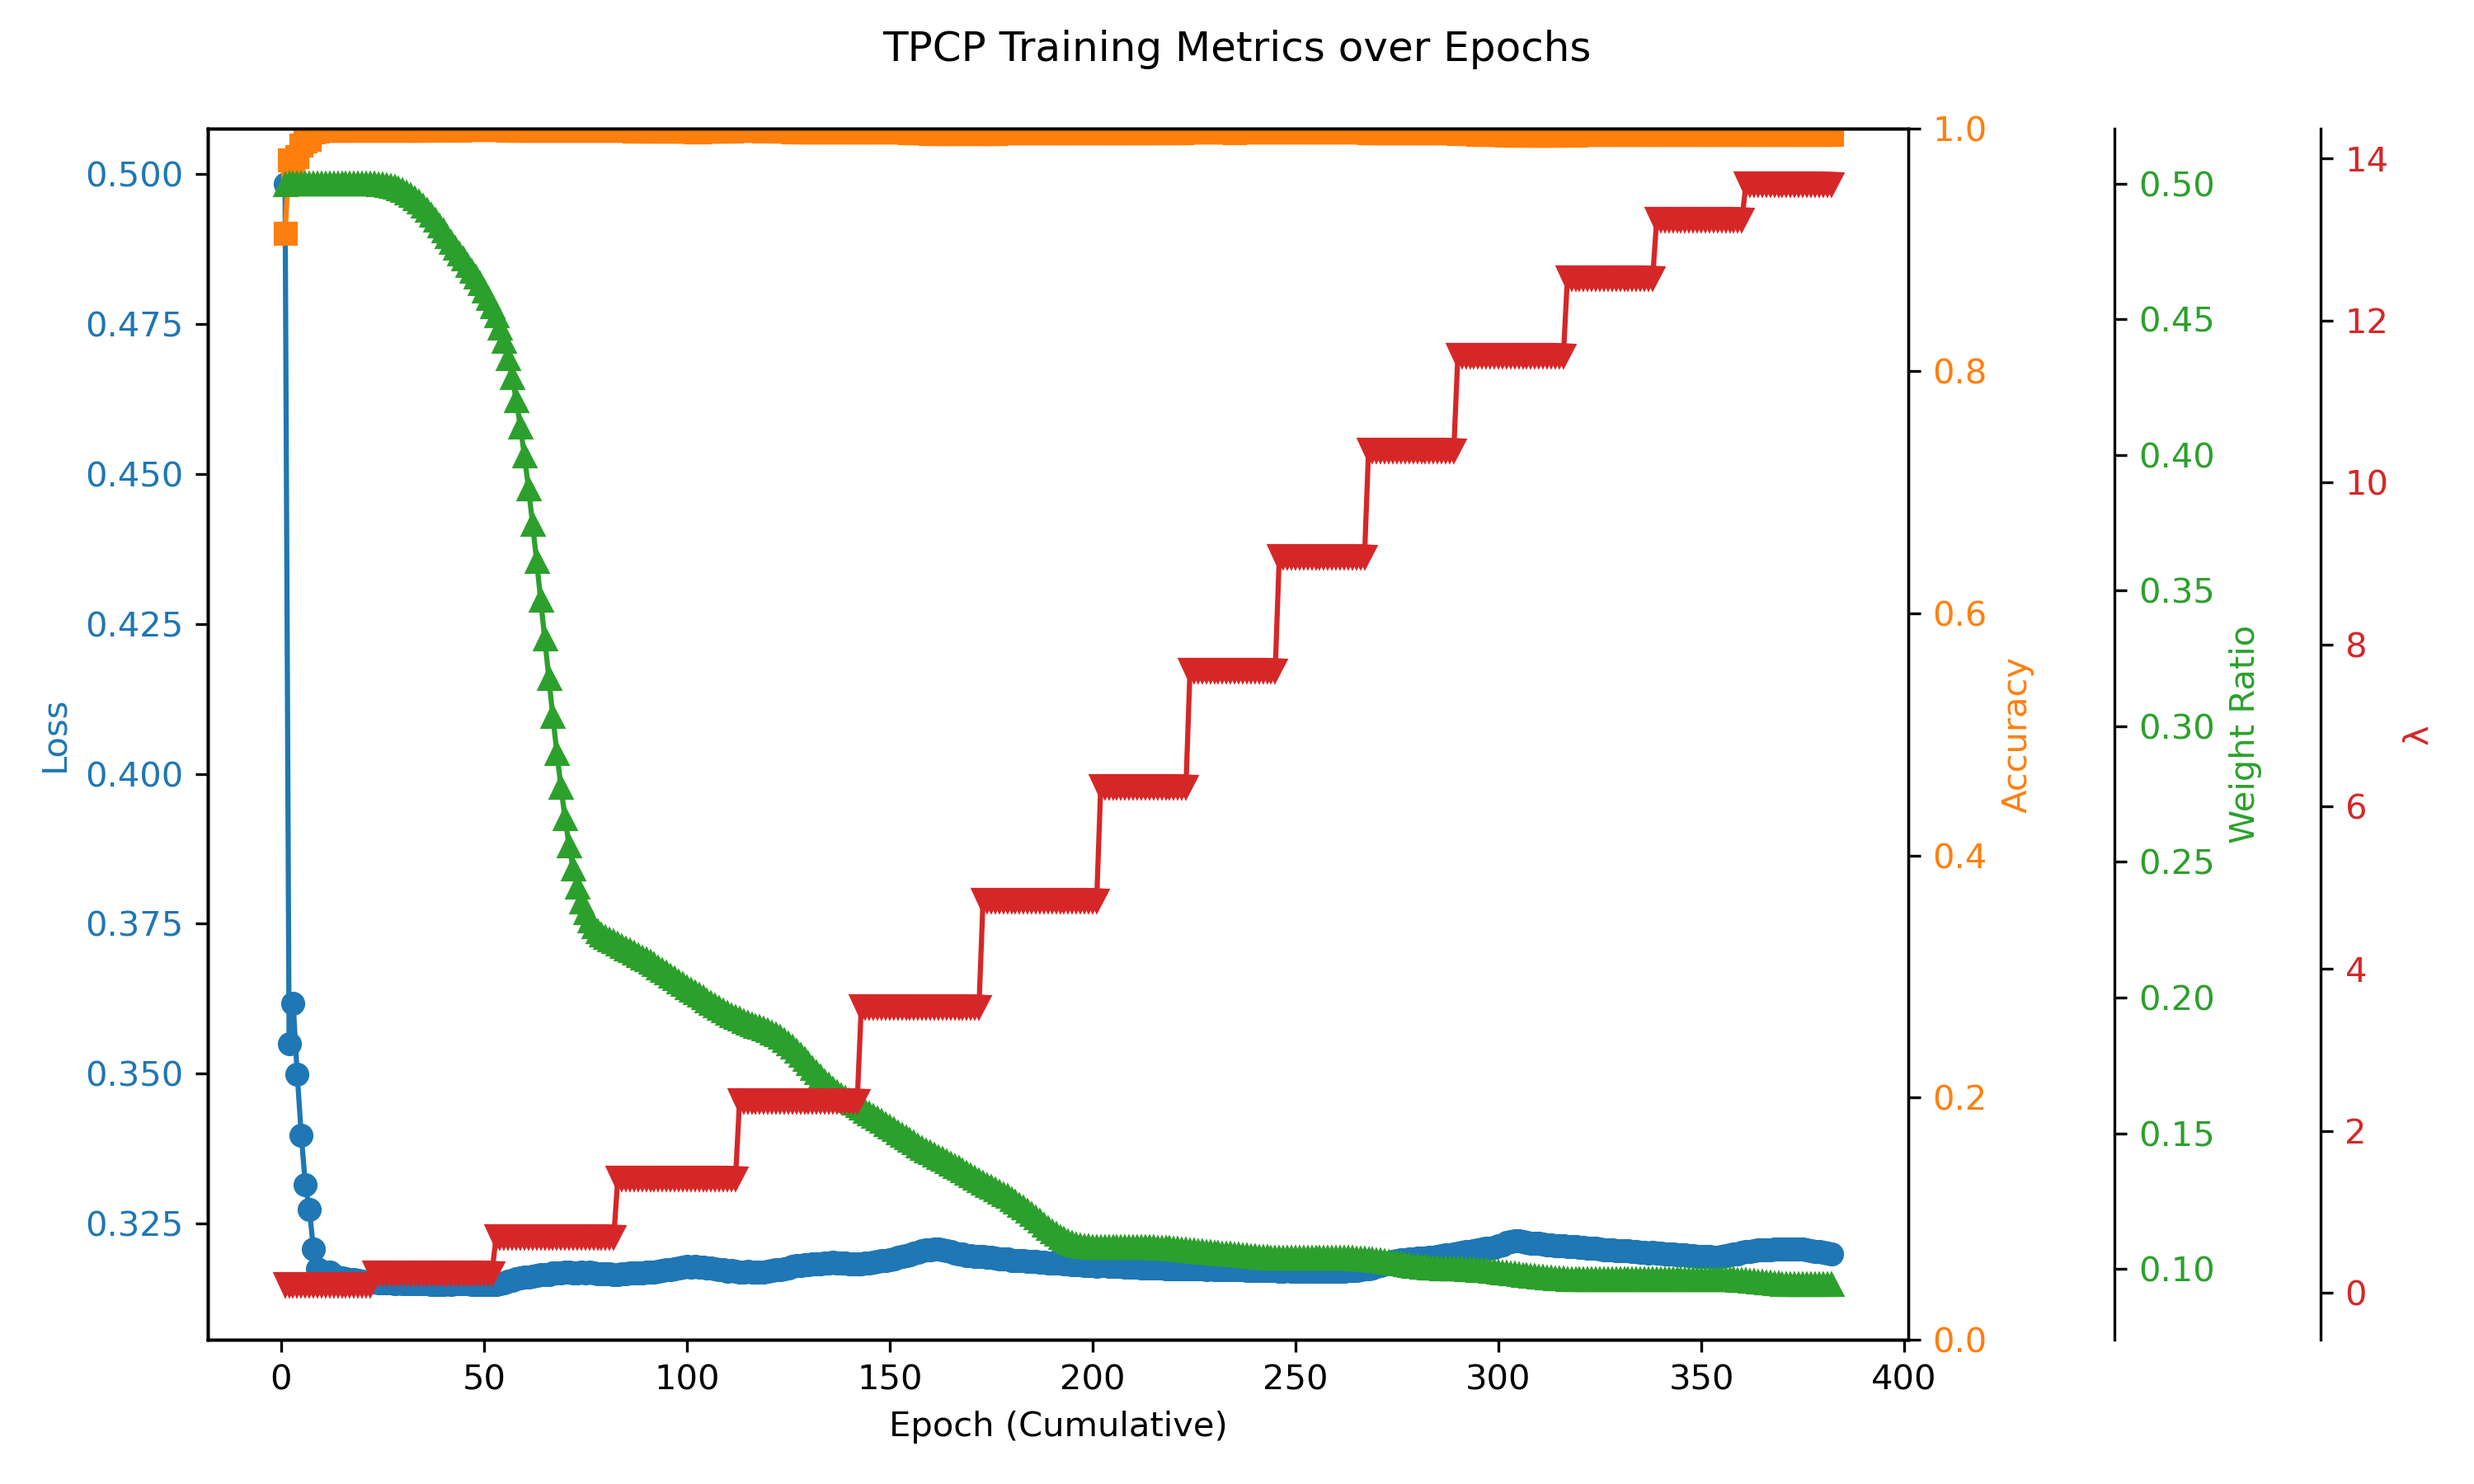
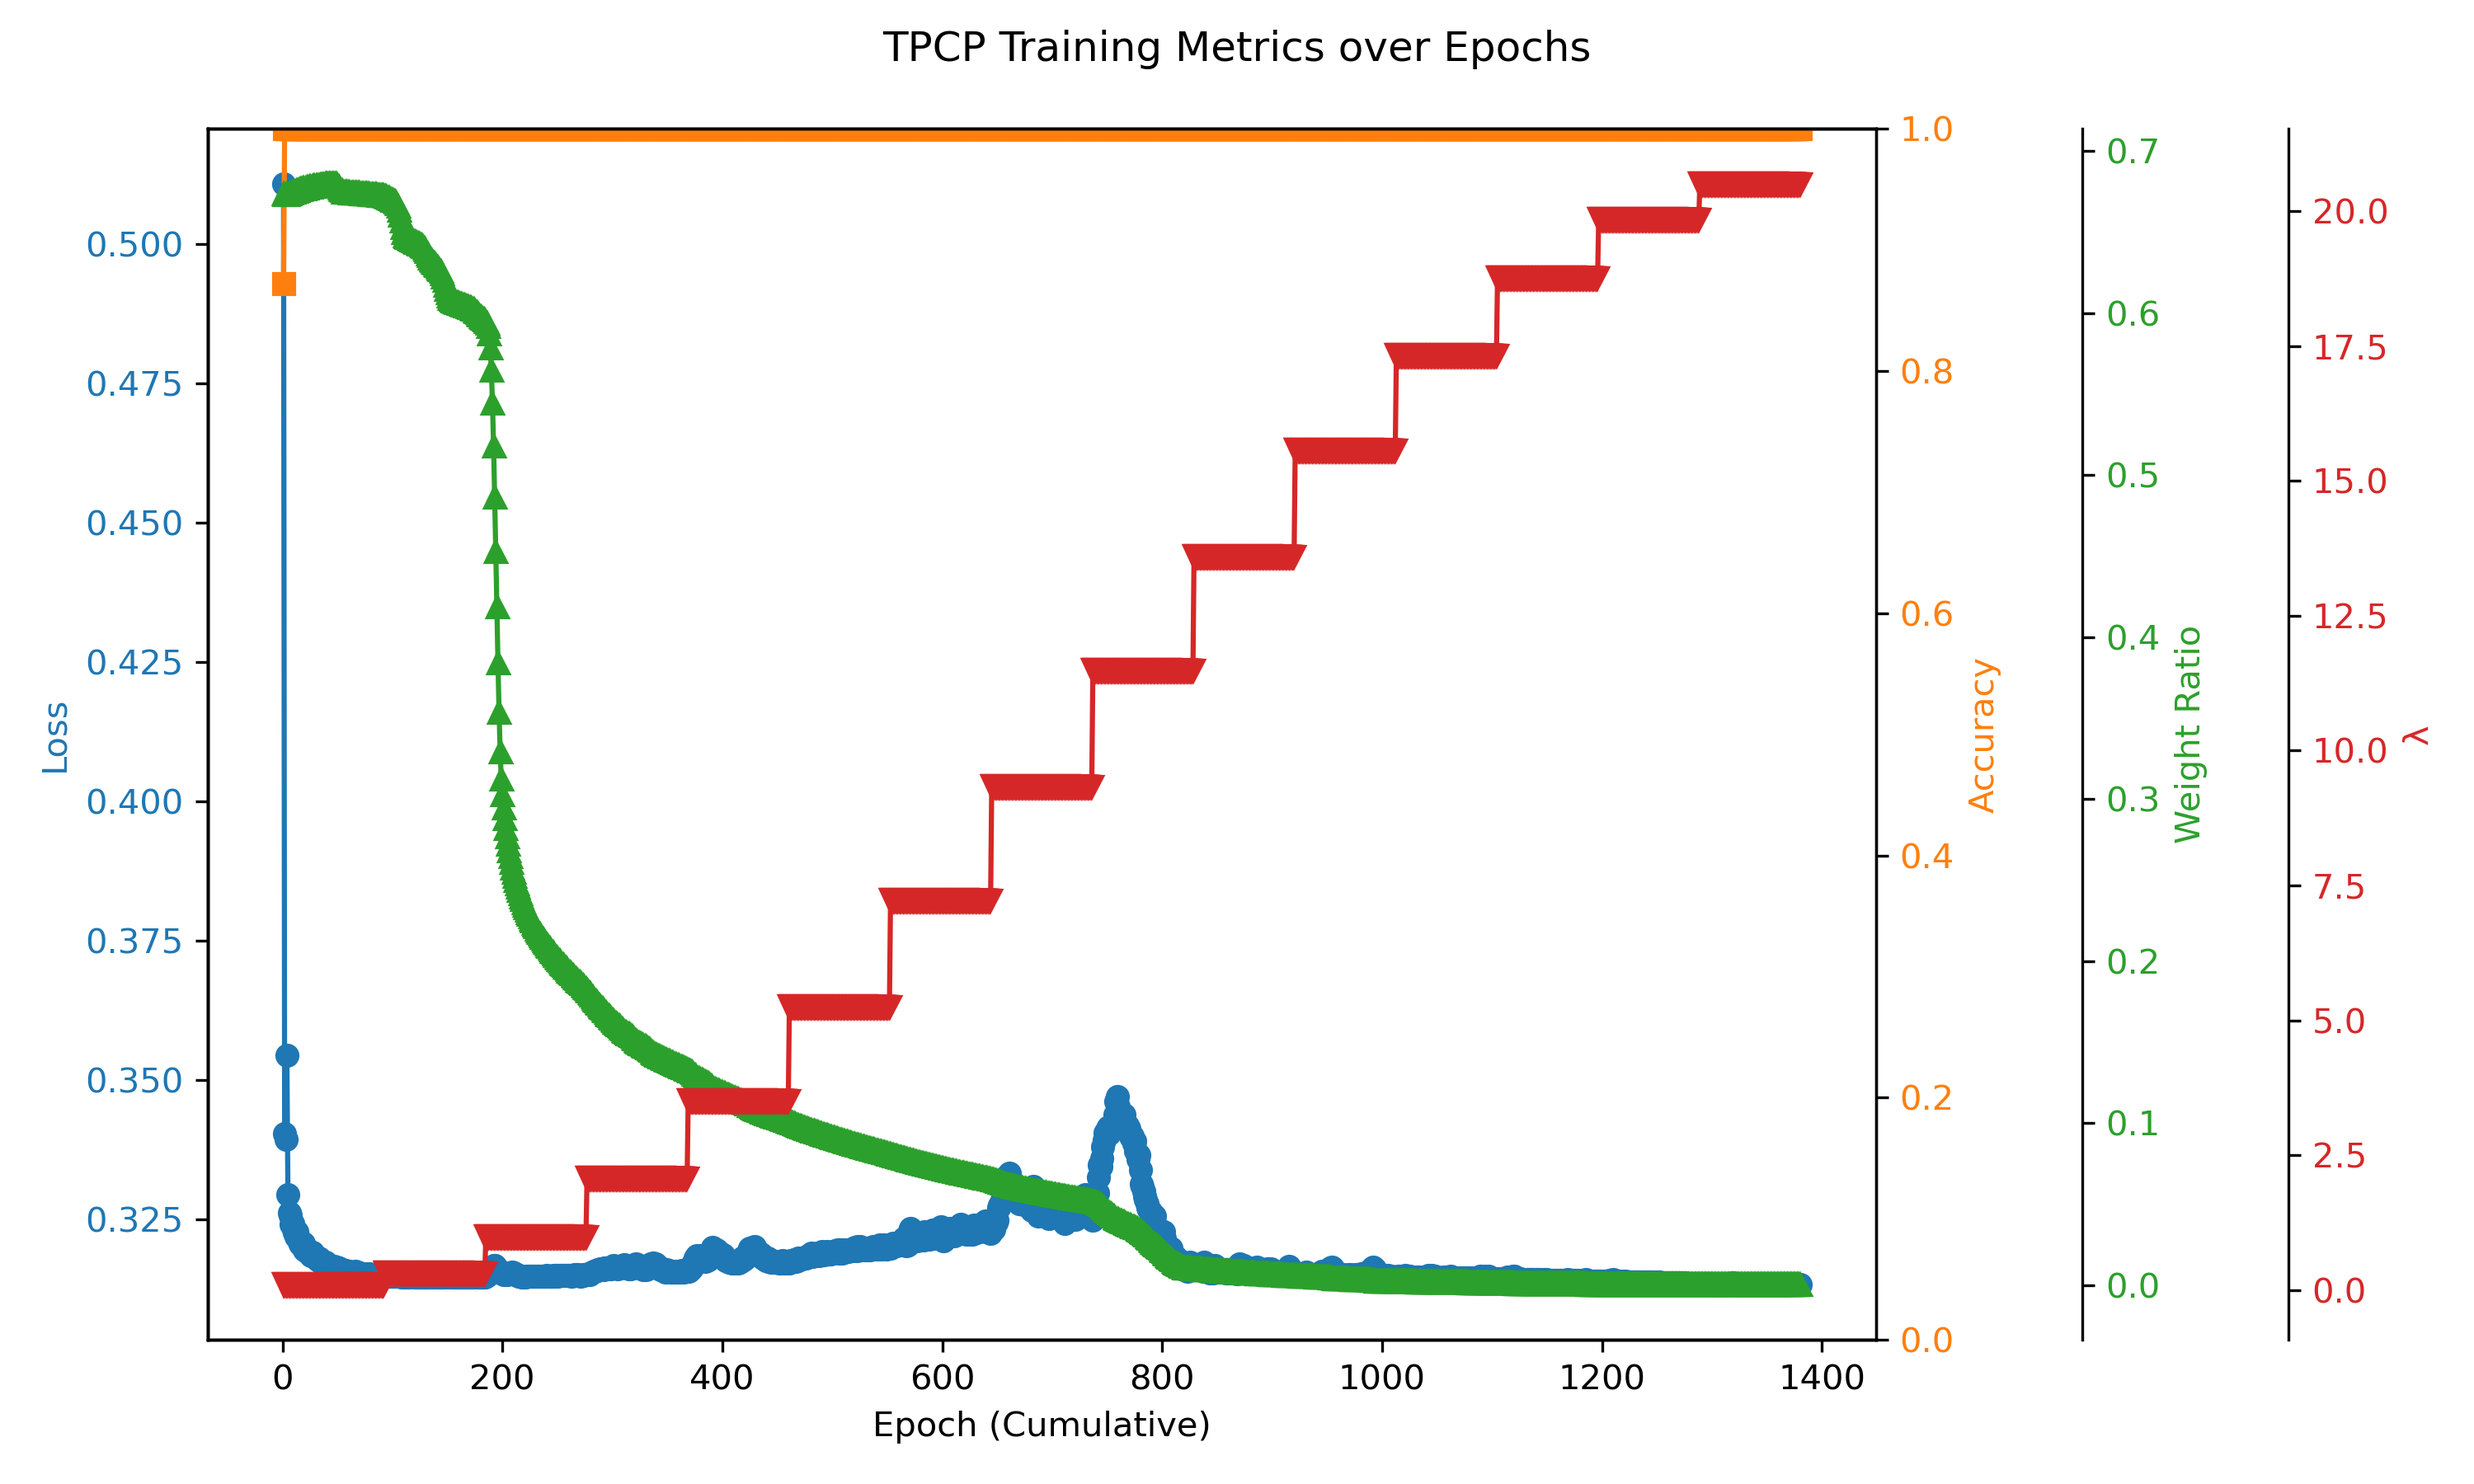
for poster is almost completed

diff --git a/mps/trainer/adaptive_mpsae_trainer.py b/mps/trainer/adaptive_mpsae_trainer.py
@@ -156,17 +156,17 @@ def mpsae_adaptive_train(
     data_batch, target_batch = next(iter(dataloader))
     data_batch, target_batch = data_batch.to(device), target_batch.to(device)
     with torch.no_grad():
-        initial_probs = tpcp(data_batch, return_probs=True)
+        initial_probs, reg = tpcp(data_batch, return_probs=True, return_reg=True)
         softmax_initial_probs = logsoftmax(initial_probs)
         # print("Initial model outputs:", softmax_initial_probs)
         initial_accuracy = calculate_accuracy(initial_probs[:, 0], target_batch)
         print(f"Initial accuracy: {initial_accuracy.item():.2%}")
         initial_loss = nnloss(softmax_initial_probs, target_batch)
-        initial_reg_weight = tpcp_mps.regularize_weight(tpcp.W)
+        initial_reg = reg
     print(f"Initial loss for λ determination: {initial_loss.item():.6f}")
-    print(f"Initial regularization weight: {initial_reg_weight.item():.6f}")
+    print(f"Initial regularization weight: {initial_reg.item():.6f}")
     # Update lambda_final based on the initial loss.
-    lambda_final = initial_loss.item() / initial_reg_weight.item() * 10
+    lambda_final = initial_loss.item() / initial_reg.item() * 20
     print(f"Updated lambda_final set to: {lambda_final:.6f}")
 
     # --- Step 4: Scheduler Setup ---
@@ -187,7 +187,15 @@ def mpsae_adaptive_train(
     metrics = {"loss": [], "accuracy": [], "lambda": [], "weight_rate": []}
     epoch_total = 0
 
+    tpcp.train()
+
     while current_lambda < lambda_final and current_schedule_step <= total_schedule_steps:
+        if current_schedule_step == total_schedule_steps:
+            with torch.no_grad():
+                W = torch.zeros(tpcp.L, 2, dtype=torch.float64, device=device)
+                W[:, 0] = 1 
+                W[:, 1] = 1
+                tpcp.initialize_W(W)
         print(f"\n=== Training Phase with λ = {current_lambda:.6f} (Schedule Step {current_schedule_step}/{total_schedule_steps}) ===")
         phase_epoch = 0
         conv_counter = 0
@@ -196,7 +204,7 @@ def mpsae_adaptive_train(
         while phase_epoch < max_epochs:
             # Create optimizers: one for the Kraus ops and one for W and r.
             optimizer = RiemannianAdam(tpcp.kraus_ops.parameters(), lr=lr, betas=(0.9, 0.999))
-            optimizer_weight = torch.optim.Adam([tpcp.W, tpcp.r], lr=lr * 3)
+            optimizer_weight = torch.optim.Adam([tpcp.W, tpcp.r], lr=0.01)
 
             epoch_loss_sum = 0.0
             epoch_acc_sum = 0.0
@@ -220,14 +228,11 @@ def mpsae_adaptive_train(
                 optimizer.zero_grad()
                 optimizer_weight.zero_grad()
 
-                outputs = tpcp(data, return_probs=True)
+                outputs, reg = tpcp(data, return_probs=True, return_reg=True)
                 softmax_outputs = logsoftmax(outputs)
                 loss = nnloss(softmax_outputs, target)
-                reg_weight = tpcp_mps.regularize_weight(tpcp.W)
-                loss_with_reg = loss + current_lambda * reg_weight
-
+                loss_with_reg = loss + current_lambda * reg
                 loss_with_reg.backward()
-                # print(tpcp.W.grad)
                 optimizer.step()
                 optimizer_weight.step()
                 tpcp.normalize_w_and_r()
@@ -237,7 +242,7 @@ def mpsae_adaptive_train(
                 bs = target.size(0)
                 epoch_loss_sum += loss.item() * bs
                 epoch_loss_with_reg_sum += loss_with_reg.item() * bs
-                epoch_reg_weight_sum += reg_weight.item() * bs
+                epoch_reg_weight_sum += reg.item() * bs
                 total_samples += bs
                 batch_acc = calculate_accuracy(outputs[:, 0].detach(), target)
                 epoch_acc_sum += batch_acc.item() * bs
@@ -247,8 +252,8 @@ def mpsae_adaptive_train(
                 if (step + 1) % log_steps == 0 or step == 0:
                     print(
                         f"[λ {current_lambda:.6f}] Epoch {phase_epoch+1}, Step {step+1}/{len(dataloader)} | "
-                        f"Reg: {reg_weight.item():.6f} | Batch Loss: {loss.item():.6f} | "
-                        f"Loss+Reg: {loss_with_reg.item():.6f} | Acc: {batch_acc.item():.2%}"
+                        f"Reg: {reg.item():.6f} | Batch Loss: {loss.item():.6f} | "
+                        f"Loss+Reg: {loss_with_reg.item():.6f} | Acc: {batch_acc.item():.2%} |"
                         f"Weight Ratio: {weight_ratio.item():.6f}"
                     )
 

diff --git a/mps/tpcp_mps.py b/mps/tpcp_mps.py
@@ -194,7 +194,7 @@ class MPSTPCP(nn.Module):
 
         self.initialize_W(random_init=False)
 
-    def forward(self, X, normalize: bool = True, return_probs: bool = False):
+    def forward(self, X, normalize: bool = True, return_probs: bool = False, return_reg: bool = False):
         """
         Args:
             X (tensor): shape (batch_size, N, 2), where N is the number of qubits (or pixels).
@@ -206,7 +206,9 @@ class MPSTPCP(nn.Module):
 
         # normalize r and W
         r = self.r / (torch.norm(self.r) / np.sqrt(self.r.shape[0]))
-        W = self.W / torch.norm(self.W, dim=1, keepdim=True)
+
+
+
         # self.proj_stiefel(check_on_manifold=True, print_log=True)
 
         batch_size = X.shape[0]
@@ -220,19 +222,21 @@ class MPSTPCP(nn.Module):
             kraus_ops = self.kraus_ops[i].reshape(
                 self.K, self.kraus_ops.act_size, self.kraus_ops.act_size
             )
-            rho, reg = self.forward_layer(rho, kraus_ops)
+            rho = self.forward_layer(rho, kraus_ops)
 
             if i < self.L - 1:
-                rho = self.partial(rho, 0, W[i])
+                rho, reg = self.partial(rho, 0, self.W[i])
+                reg_list.append(reg.mean())
                 next_rho = self.get_rho(X[:, i + 2])
                 rho = self.tensor_product(rho, next_rho)
 
             # Start of Selection
-        rho_out, reg = self.partial(rho, 0, W[self.L - 1])
+        rho_out, reg = self.partial(rho, 0, self.W[self.L - 1])
+        reg_list.append(reg.mean())
         self.rho_last = rho_out.detach().clone()
-        self.reg = torch.mean(torch.tensor(reg_list))
-        print(f"Regularization: {self.reg.item():.6f}")
 
+        reg = sum(reg_list) / len(reg_list)
+        
             # rho_test = rho_out[0, :, :]
             # trace = torch.trace(rho_test)
             # assert torch.isclose(trace, torch.tensor(1.0, device=rho_test.device, dtype=rho_test.dtype)), f"Trace of rho_out is {trace}, expected 1."
@@ -248,9 +252,9 @@ class MPSTPCP(nn.Module):
         outputs = torch.stack([mes0_result, mes1_result], dim=-1)
         probs = self._to_probs(outputs)
         if return_probs:
-            return probs
+            return probs if not return_reg else (probs, reg)
         else:
-            return probs[:, 0]
+            return probs[:, 0] if not return_reg else (probs[:, 0], reg)
 
     @staticmethod
     def tensor_product(rho1, rho2):
@@ -326,7 +330,6 @@ class MPSTPCP(nn.Module):
             weight = torch.ones(self.d, dtype=rho.dtype, device=rho.device)
             weight /= weight.norm()
         
-
         assert np.isclose(np.linalg.norm(weight.detach().cpu().numpy()), 1.0, atol=1e-10), f"weight must sum to 1, got {weight}"
 
         # Reshape => (batch_size, d, d, d, d)

diff --git a/train_toy.py b/train_toy.py
@@ -6,9 +6,10 @@ Run training on a synthetic dataset.
 Example usage:
 
 python train_toy.py \
-    --epochs 10 \
+    --epochs 300 \
     --seed 2024 \
     --lr 0.0001 \
+    --N 20 \
     umps
 
     
@@ -30,13 +31,13 @@ python train_toy.py \
     --seed 2024 \
     --lr 0.0001 \
     mpsae \
-    --schedule_steps 15 \
+    --total_schedule_steps 15 \
     --mode adaptive \
     --manifold Exact \
     --conv_strategy relative \
     --conv_threshold 1e-2 \
     --min_epochs 90 \
-    --simple_epochs 200 \
+    --simple_epochs 100 \
     --simple_lr 0.00005
 """
 
